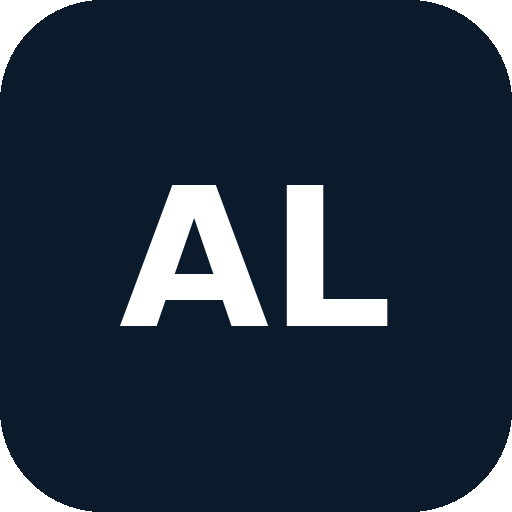
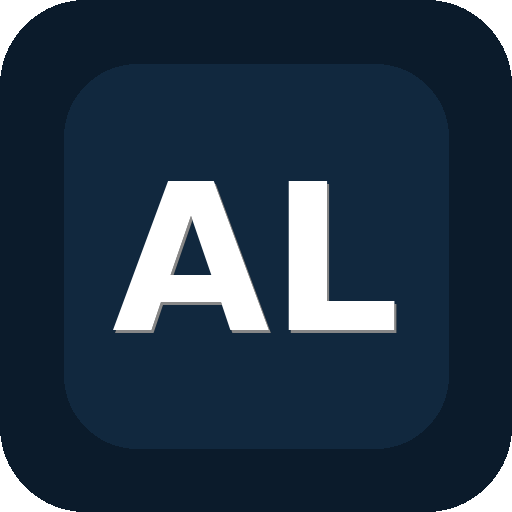
Replace handoff with location + AI auction description generator
- item.html: New "Auction Description" section replaces Request Handoff
  - Fields: dimensions, condition update, additional notes
  - AI generates professional estate-auction listing copy (80-150 words)
  - Shows result inline with one-tap Copy button
  - Pre-fills fields if data already saved on item
- server.js: POST /items/:id/auction-description — saves dimensions,
  condition, notes to item then calls GPT for auction-ready prose
- icon-192/512.png: improved icon with inner panel + drop shadow
- index.html: add apple-touch-icon + PWA meta tags for iOS installs

https://claude.ai/code/session_01XckkQ5cPKrkxLLEahd5tnV

diff --git a/public/item.html b/public/item.html
@@ -186,19 +186,23 @@ select, input {
     <button class="btn-red" onclick="deleteItem()">Delete Item</button>
   </div>
 
-  <!-- REQUEST HANDOFF -->
+  <!-- AUCTION DESCRIPTION GENERATOR -->
   <div class="card">
-    <h3 style="margin-bottom:4px;">Request Handoff</h3>
-    <select id="stageSelect">
-      <option>Received at Studio</option>
-      <option>Review & Cleaning</option>
-      <option>Photograph</option>
-      <option>Prep for Pickup</option>
-      <option>Picked Up</option>
+    <h3 style="margin-bottom:4px;">Auction Description</h3>
+    <input id="dimInput" placeholder='Dimensions (e.g. 24" H × 18" W × 12" D)'>
+    <select id="conditionSelect" style="margin-top:10px;">
+      <option value="">-- Update Condition --</option>
+      <option>Excellent</option>
+      <option>Good</option>
+      <option>Fair</option>
+      <option>Worn</option>
+      <option>Vintage Wear</option>
     </select>
-    <input id="reasonInput" placeholder="Reason (optional)">
-    <button class="btn-blue" onclick="requestHandoff()">Send Handoff Request</button>
-    <div id="handoffMsg" class="success-msg">✅ Handoff request sent</div>
+    <textarea id="notesInput" placeholder="Additional notes (provenance, markings, repairs, etc.)" rows="3" style="margin-top:10px;width:100%;padding:14px;border-radius:12px;border:1px solid #e5e7eb;box-sizing:border-box;font-size:14px;resize:vertical;"></textarea>
+    <button class="btn-blue" onclick="generateDescription()">✨ Generate Auction Description</button>
+    <div id="descMsg" class="success-msg">✅ Description generated</div>
+    <div id="descResult" style="display:none;margin-top:12px;background:#f8fafc;border:1px solid #e5e7eb;border-radius:10px;padding:14px;font-size:14px;line-height:1.6;color:#111827;"></div>
+    <button id="copyDescBtn" class="btn-green" style="display:none;margin-top:8px;" onclick="copyDescription()">Copy Description</button>
   </div>
 
 </div>
@@ -259,8 +263,15 @@ function render() {
   document.getElementById('detailLocation').innerText = item.location || '—';
   document.getElementById('detailDescription').innerText = item.description || '—';
 
-  if (item.location) {
-    document.getElementById('locationInput').value = item.location;
+  if (item.location)   document.getElementById('locationInput').value = item.location;
+  if (item.dimensions) document.getElementById('dimInput').value = item.dimensions;
+  if (item.condition)  document.getElementById('conditionSelect').value = item.condition;
+
+  if (item.auctionDescription) {
+    const r = document.getElementById('descResult');
+    r.innerText = item.auctionDescription;
+    r.style.display = 'block';
+    document.getElementById('copyDescBtn').style.display = 'block';
   }
 
   // Photo
@@ -300,27 +311,51 @@ async function saveLocation() {
 }
 
 // =========================
-// REQUEST HANDOFF
+// GENERATE AUCTION DESCRIPTION
 // =========================
-async function requestHandoff() {
-  const stage = document.getElementById('stageSelect').value;
-  const reason = document.getElementById('reasonInput').value.trim();
+async function generateDescription() {
+  const dimensions     = document.getElementById('dimInput').value.trim();
+  const condition      = document.getElementById('conditionSelect').value;
+  const additionalNotes = document.getElementById('notesInput').value.trim();
+
+  const btn = document.querySelector('[onclick="generateDescription()"]');
+  btn.disabled = true;
+  btn.innerText = '⏳ Generating...';
+
   try {
-    const res = await fetch(`/items/${item.id}/request-handoff`, {
+    const res = await fetch(`/items/${item.id}/auction-description`, {
       method: 'POST',
       headers: { 'Content-Type': 'application/json' },
-      body: JSON.stringify({ stage, reason, employee: user.name })
+      body: JSON.stringify({ dimensions, condition, additionalNotes, employee: user.name })
     });
     const data = await res.json();
     if (data.success) {
-      item = data.item;
-      const msg = document.getElementById('handoffMsg');
+      item.auctionDescription = data.description;
+      const r = document.getElementById('descResult');
+      r.innerText = data.description;
+      r.style.display = 'block';
+      document.getElementById('copyDescBtn').style.display = 'block';
+      const msg = document.getElementById('descMsg');
       msg.style.display = 'block';
       setTimeout(() => { msg.style.display = 'none'; }, 2500);
+    } else {
+      alert(data.message || 'Description generation failed');
     }
   } catch (err) {
-    alert('Failed to send handoff request');
+    alert('Failed to generate description');
+  } finally {
+    btn.disabled = false;
+    btn.innerText = '✨ Generate Auction Description';
   }
+}
+
+function copyDescription() {
+  const text = document.getElementById('descResult').innerText;
+  navigator.clipboard.writeText(text).then(() => {
+    const btn = document.getElementById('copyDescBtn');
+    btn.innerText = '✅ Copied!';
+    setTimeout(() => { btn.innerText = 'Copy Description'; }, 2000);
+  });
 }
 
 // =========================

diff --git a/server.js b/server.js
@@ -533,6 +533,63 @@ app.post('/analyze-image', async (req, res) => {
 });
 
 // =========================
+// GENERATE AUCTION DESCRIPTION
+// =========================
+app.post('/items/:id/auction-description', async (req, res) => {
+  const items = readJSON(ITEMS_FILE);
+  const item = items.find(i => String(i.id) === String(req.params.id));
+  if (!item) return res.status(404).json({ success: false, message: 'Item not found' });
+
+  if (!client) {
+    return res.json({ success: false, message: 'AI not configured.' });
+  }
+
+  const { dimensions, condition, additionalNotes, employee } = req.body;
+
+  // Save the extra detail fields back to the item
+  if (dimensions)      item.dimensions = dimensions;
+  if (condition)       item.condition  = condition;
+  if (additionalNotes) item.additionalNotes = additionalNotes;
+
+  const prompt = `You are writing a professional estate auction lot description for an online auction house.
+
+Item details:
+- Name: ${item.name || 'Unknown'}
+- Category: ${item.category || 'Unknown'}
+- Condition: ${condition || item.condition || 'Unknown'}
+- Dimensions: ${dimensions || item.dimensions || 'Not provided'}
+- Base description: ${item.description || 'None'}
+- Additional notes: ${additionalNotes || 'None'}
+
+Write a compelling, professional auction listing description. Include:
+1. A brief evocative opening sentence about the piece
+2. Material, style, and craftsmanship details
+3. Dimensions (if provided)
+4. Honest condition notes
+5. A closing sentence about its appeal or use
+
+Keep it between 80-150 words. Plain prose only — no bullet points, no markdown. Write in third person. Make it sound like a high-end estate auction house.`;
+
+  try {
+    const response = await client.chat.completions.create({
+      model: 'gpt-4o-mini',
+      max_tokens: 300,
+      messages: [{ role: 'user', content: prompt }]
+    });
+
+    const description = (response.choices[0].message.content || '').trim();
+    item.auctionDescription = description;
+    addLog(item, { employee: employee || 'system', action: 'auction description generated' });
+    writeJSON(ITEMS_FILE, items);
+
+    res.json({ success: true, description });
+  } catch (err) {
+    console.error('AI DESC ERROR:', err.message);
+    res.json({ success: false, message: 'AI description failed: ' + err.message });
+  }
+});
+
+// =========================
 // REPORTS — GET ALL
 // =========================
 app.get('/reports', (req, res) => {

diff --git a/public/index.html b/public/index.html
@@ -9,6 +9,9 @@
   />
   <meta name="theme-color" content="#0b1b2b" />
   <link rel="manifest" href="/manifest.json" />
+  <link rel="apple-touch-icon" href="/icon-192.png" />
+  <meta name="apple-mobile-web-app-capable" content="yes" />
+  <meta name="apple-mobile-web-app-title" content="Auction Legacy" />
   <link rel="stylesheet" href="/styles.css" />
 </head>
 <body style="background:#0b1b2b;display:flex;justify-content:center;align-items:center;min-height:100vh;">
